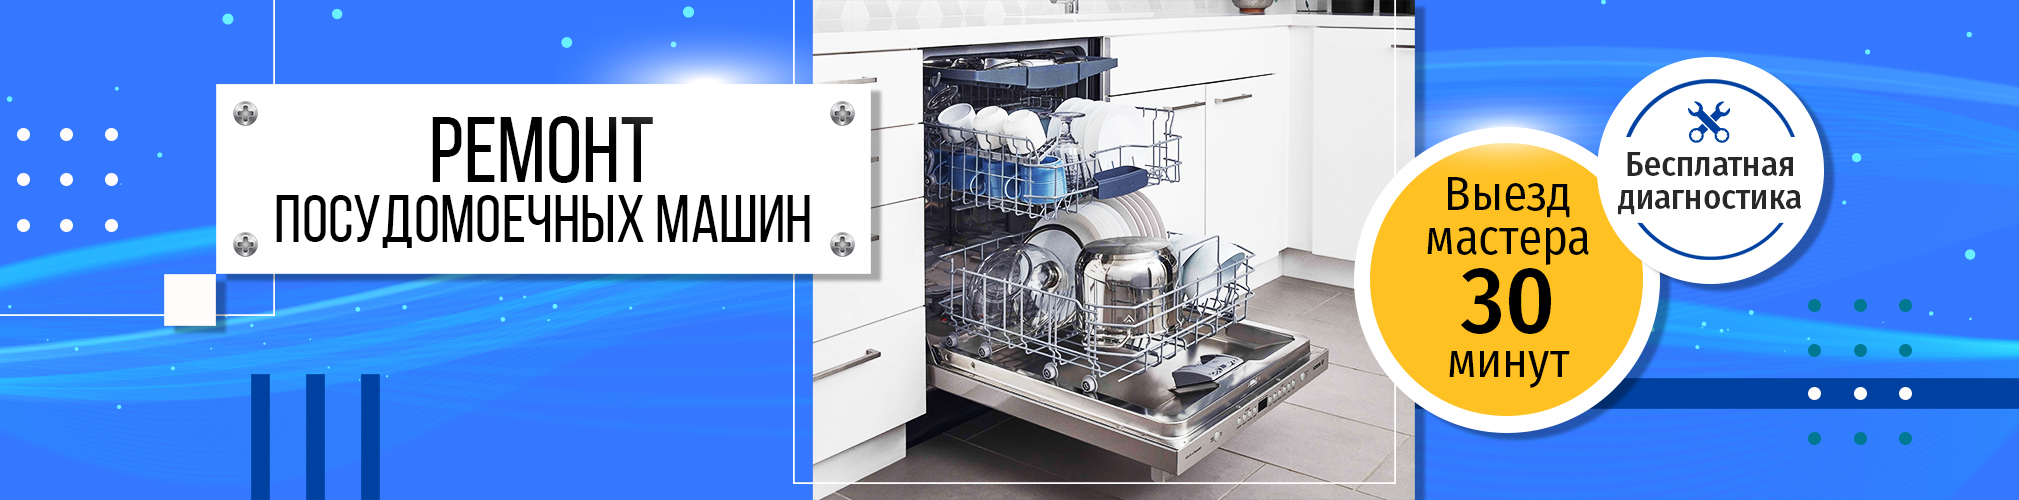
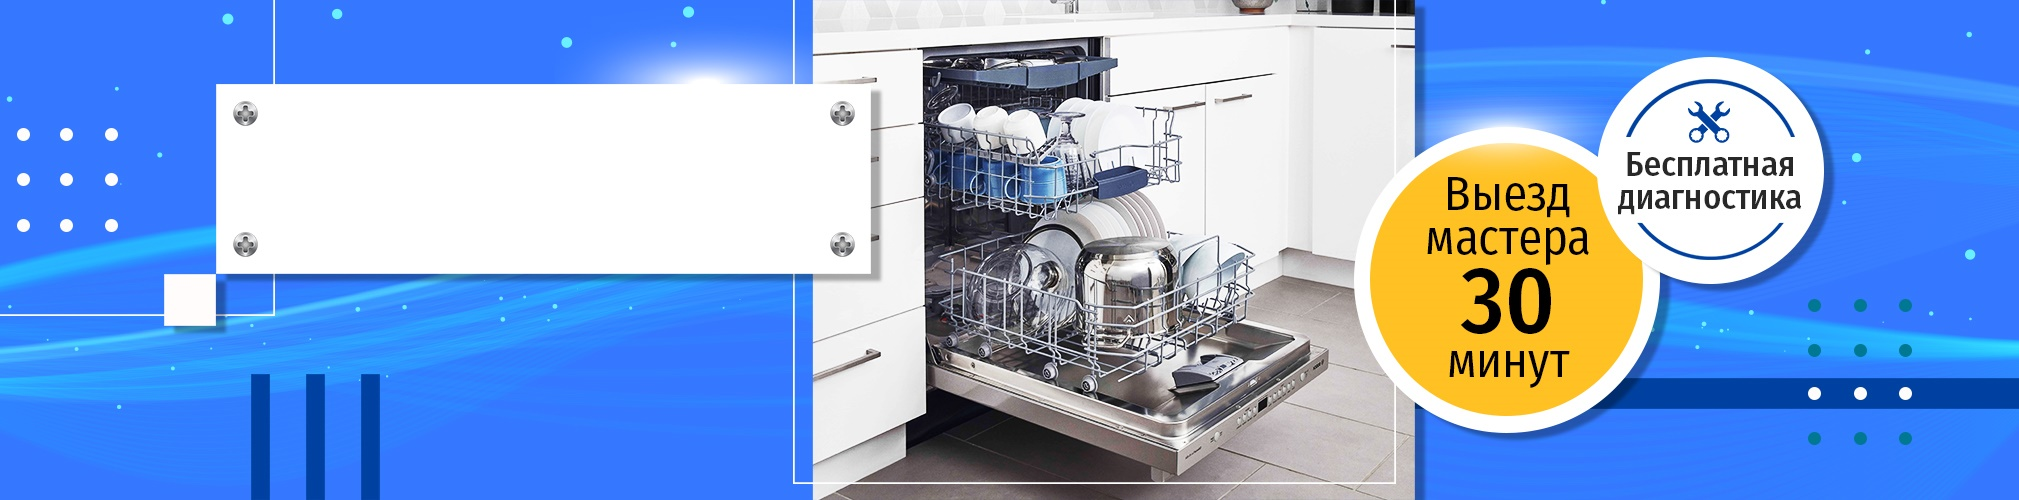
добавлен текст вместо картинки бренда

diff --git a/www/scss/main.scss b/www/scss/main.scss
@@ -519,7 +519,8 @@ textarea {
 }
 
 .banner_brand_block,
-.banner_title_block {
+.banner_title_block-1,
+.banner_title_block-2 {
     position: absolute;
     display: -webkit-flex;
     display: -moz-flex;
@@ -534,13 +535,30 @@ textarea {
     align-items: center;
 }
 
-.banner_title-h2 {
-    font-size: 40px;
+.banner_title_block-1 {
+    top: 33px;
+    left: 81px;
+}
+
+.banner_title-h2-1,
+.banner_title-h2-2 {
+    font-size: 32px;
     text-transform: uppercase;
     font-family: $font__third;
     font-weight: 300;
     text-align: center;
     line-height: 40px;
+    letter-spacing: -2px;
+    & span {
+        display: block;
+        font-size: 38px;
+        margin: -5px 0 -5px 0;
+    }
+}
+
+.banner_title-h2-2 {
+    font-size: 30px;
+    letter-spacing: -1px;
 }
 
 .banner_brand_block {
@@ -2013,6 +2031,10 @@ button.arrow img {
     &_tel {
         font-size: 35px;
     }
+}
+
+.font_size28 {
+    font-size: 28px;
 }
 
 //=========== plan b studio ===============\\

diff --git a/www/css/main.css b/www/css/main.css
@@ -554,7 +554,8 @@ textarea {
 }
 
 .banner_brand_block,
-.banner_title_block {
+.banner_title_block-1,
+.banner_title_block-2 {
   position: absolute;
   display: -moz-flex;
   display: -ms-flex;
@@ -568,13 +569,32 @@ textarea {
   align-items: center;
 }
 
-.banner_title-h2 {
-  font-size: 40px;
+.banner_title_block-1 {
+  top: 33px;
+  left: 81px;
+}
+
+.banner_title-h2-1,
+.banner_title-h2-2 {
+  font-size: 32px;
   text-transform: uppercase;
   font-family: "Oswald";
   font-weight: 300;
   text-align: center;
   line-height: 40px;
+  letter-spacing: -2px;
+}
+
+.banner_title-h2-1 span,
+.banner_title-h2-2 span {
+  display: block;
+  font-size: 38px;
+  margin: -5px 0 -5px 0;
+}
+
+.banner_title-h2-2 {
+  font-size: 30px;
+  letter-spacing: -1px;
 }
 
 .banner_brand_block {
@@ -2083,6 +2103,10 @@ button.arrow img {
 
 .error404_tel {
   font-size: 35px;
+}
+
+.font_size28 {
+  font-size: 28px;
 }
 
 .plan-b-style {

diff --git a/controller/IndexController.class.php b/controller/IndexController.class.php
@@ -199,6 +199,7 @@ class IndexController extends Controller {
             'brands' => $data['brands'],
             'brand' => $data['brand'],
             'bg_class' => 'bg_orange',
+            'hStyle' => 'font_size28',
         ];
         
         return $arrayContent;
